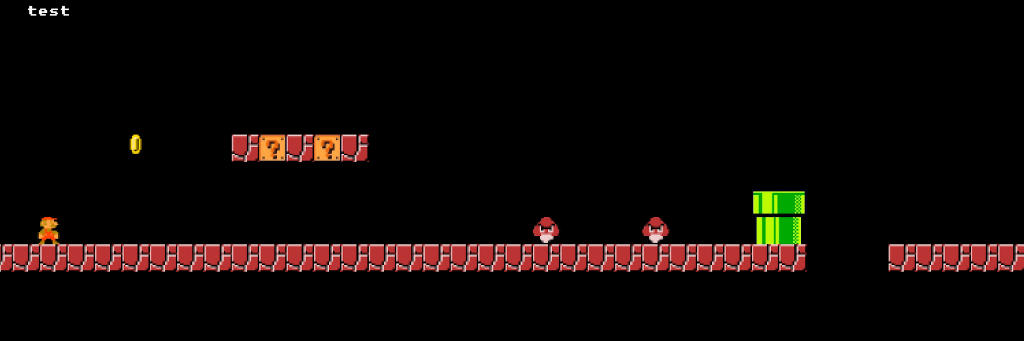
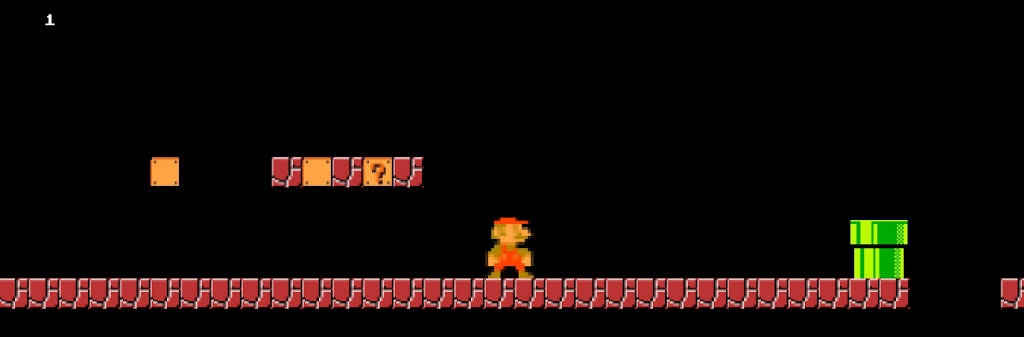
Let's make the little guys move

diff --git a/game.js b/game.js
@@ -10,8 +10,8 @@ const MOVE_SPEED = 120
 const JUMP_FORCE = 360
 const BIG_JUMP_FORCE = 560
 const ITEM_SPEED = 30
-
-let currentJumpForce = JUMP_FORCE
+const ENEMY_SPEED = 20
+const FALL_DEATH = 400
 
 
 loadRoot('https://i.imgur.com/')
@@ -33,7 +33,7 @@ loadSprite('blue-steel', 'gqVoI2b.png')
 loadSprite('blue-evil-shroom', 'SvV4ueD.png')
 loadSprite('blue-surprise', 'RMqCc1G.png')
 
-scene("game", () => {
+scene("game", ({score}) => {
     layers(['bg', 'obj', 'ui'], 'obj')
 
     const map = [
@@ -61,7 +61,7 @@ scene("game", () => {
         ')': [sprite('pipe-bottom-right'), solid(), scale(0.5)],
         '-': [sprite('pipe-top-left'), solid(), scale(0.5)],
         '+': [sprite('pipe-top-right'), solid(), scale(0.5)],
-        '^': [sprite('evil-shroom'), solid()],
+        '^': [sprite('evil-shroom'), solid(), 'dangerous'],
         '#': [sprite('mushroom'), solid(), 'mushroom', body()],
 
     }
@@ -69,11 +69,11 @@ scene("game", () => {
     const gameLevel = addLevel(map, levelCfg)
 
     const scoreLabel = add([
-        text('test'),
+        text(score),
         pos(30, 6),
         layer('ui'), 
         {
-            value: 'test',
+            value: score,
         }
     ])
 
@@ -95,13 +95,13 @@ scene("game", () => {
                 return isBig
             },
             smallify() {
-                currentJumpForce = JUMP_FORCE
+                player.jumpForce = JUMP_FORCE
                 this.scale = vec2(1)
                 timer = 0
                 isBig = false
             },
             biggify(time) {
-                currentJumpForce = BIG_JUMP_FORCE
+                player.jumpForce = BIG_JUMP_FORCE
                 this.scale = vec2(2)
                 timer = time
                 isBig = true
@@ -114,7 +114,11 @@ scene("game", () => {
         pos(30, 0),
         body(),
         big(), 
-        origin('bot')
+        origin('bot'),
+        {
+            isJumping: false,
+            jumpForce: JUMP_FORCE
+        }
     ])
 
     player.on('headbump', (obj) => {
@@ -141,6 +145,30 @@ scene("game", () => {
         scoreLabel.text = scoreLabel.value
     })
 
+    action('dangerous', (d) => {
+        d.move(-ENEMY_SPEED, 0)
+    })
+
+    player.collides('dangerous', (d) => {
+        if (player.isJumping) {
+            destroy(d)
+        } else {
+            go('lose', {score: scoreLabel.value})
+        }
+    })
+
+    player.action(() => {
+        camPos(player.pos)
+
+        if (player.grounded()) {
+            player.isJumping = false
+        }
+
+        if (player.pos.y >= FALL_DEATH) {
+            go('lose', {score: scoreLabel.value})
+        }
+    })
+
     action('mushroom', (m) => {
         m.move(ITEM_SPEED, 0)
     })
@@ -155,9 +183,18 @@ scene("game", () => {
 
     keyPress('space', () => {
         if(player.grounded()) {
-            player.jump(currentJumpForce)
+            player.jump(player.jumpForce)
+            player.isJumping = true
         }
     })
 })
 
-start("game")
+scene('lose', ({ score }) => {
+    add([
+        text(score, 32),
+        origin('center'),
+        pos(width()/2, height()/2)
+    ])
+})
+
+start("game", {score: 0})
